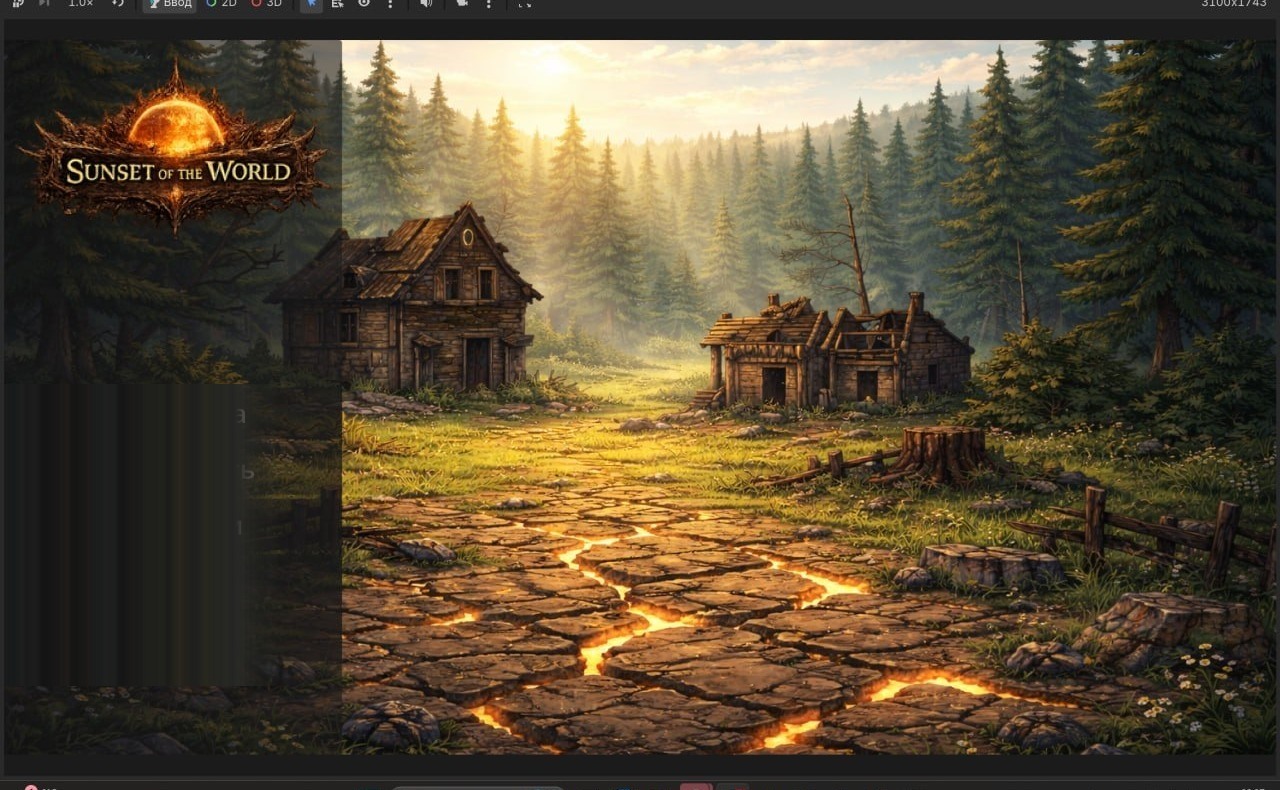
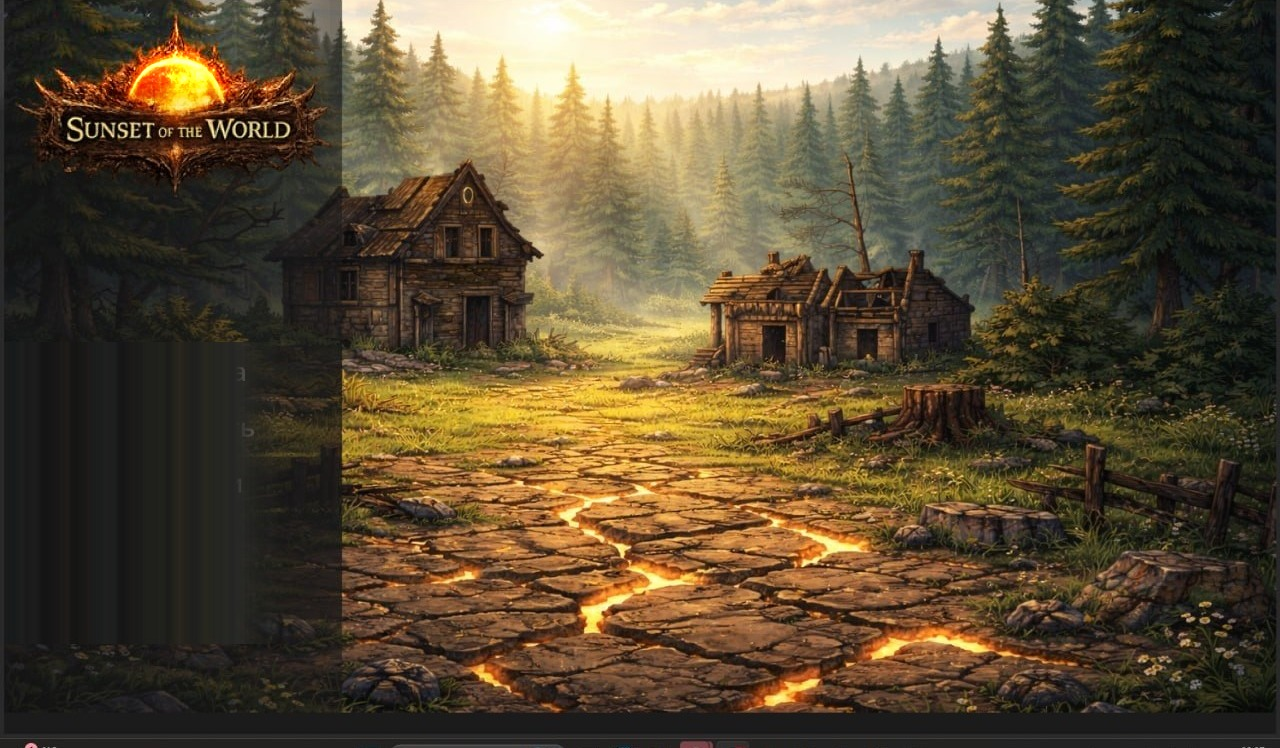
Меню: убрать остаток панели редактора сверху и осветлить логотип
- дорезал верхнюю тёмную полосу (остаток тулбара редактора из исходного
  скриншота); фон стал 1280x748 (≈16:9, меньше обрезается);
- осветлил логотип «Sunset of the World» и ослабил левый градиент,
  чтобы название не было тусклым;
- bump версии стилей (?v=4) против кэша.

Claude-Session: https://claude.ai/code/session_0194N2AGB6XRVu73SdGiyHZb

diff --git a/index.html b/index.html
@@ -4,7 +4,7 @@
   <meta charset="utf-8" />
   <meta name="viewport" content="width=device-width, initial-scale=1, viewport-fit=cover" />
   <title>Sunset of the World</title>
-  <link rel="stylesheet" href="css/menu.css?v=3" />
+  <link rel="stylesheet" href="css/menu.css?v=4" />
 </head>
 <body>
   <!-- ============ ГЛАВНОЕ МЕНЮ ============ -->

diff --git a/css/menu.css b/css/menu.css
@@ -41,7 +41,7 @@ html, body {
   content: "";
   position: absolute; inset: 0;
   background: linear-gradient(90deg,
-    rgba(8,6,4,0.85) 0%, rgba(8,6,4,0.58) 16%, rgba(8,6,4,0.2) 32%, transparent 46%);
+    rgba(8,6,4,0.55) 0%, rgba(8,6,4,0.34) 16%, rgba(8,6,4,0.12) 32%, transparent 46%);
   pointer-events: none;
 }
 
